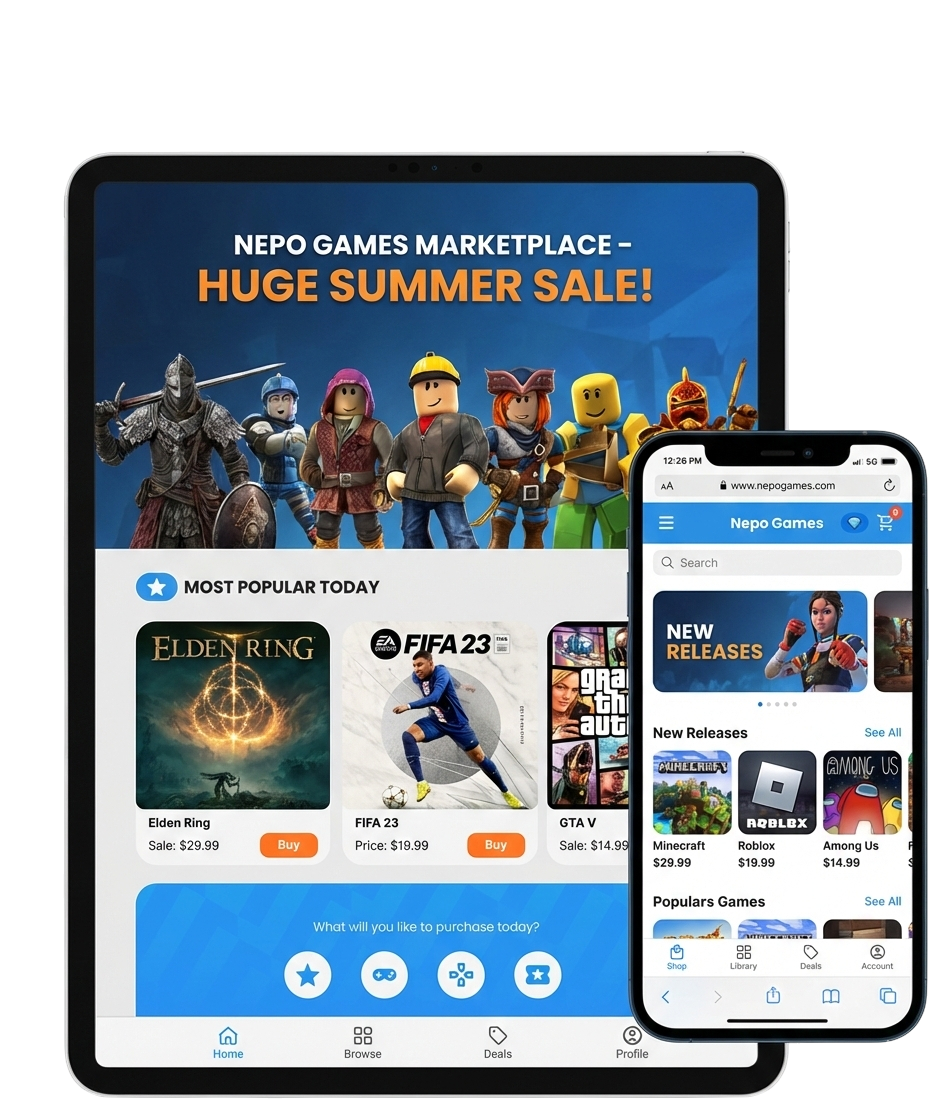
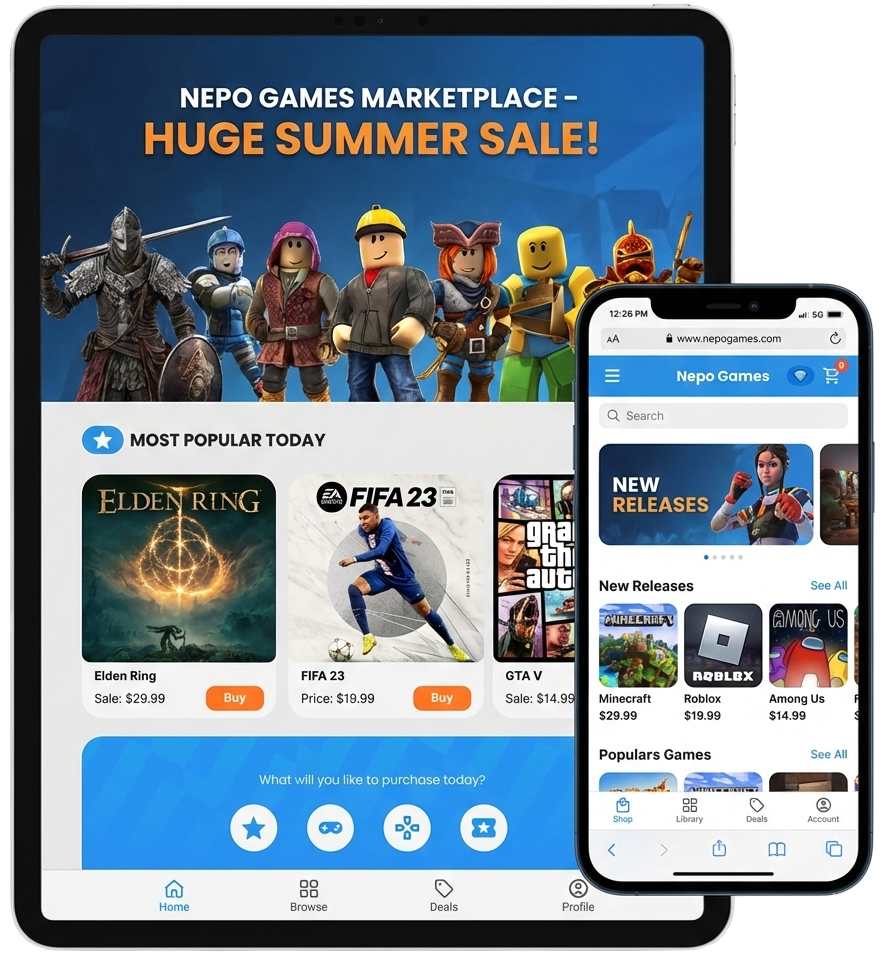
update page.jsx

diff --git a/src/app/page.jsx b/src/app/page.jsx
@@ -66,32 +66,35 @@ export default function Home() {
   return (
     <div>
       <Reveal>
-        <header className="px-20">
-          <div className="flex text-center py-4 font-semibold items-center text-gray-500 justify-between  border-b border-gray-300 w-full">
-            <div></div>
-            <div className="flex gap-9">
-              <div>
-                <a href="">Marketplace</a>
+       <header className="top-0 w-full z-1000">
+          {" "}
+          <div className="px-20  bg-white border-b border-gray-300 ">
+            <div className="flex text-center py-4 font-semibold  items-center text-[#808080] justify-between w-full">
+              <div></div>
+              <div className="flex gap-9">
+                <div>
+                  <a href="">Marketplace</a>
+                </div>
+                <div>
+                  <a href="">Pricing</a>
+                </div>
+                <div>
+                  <a href="">About Us</a>
+                </div>
+                <div>
+                  <a href="">Support</a>
+                </div>
               </div>
               <div>
-                <a href="">Pricing</a>
-              </div>
-              <div>
-                <a href="">About Us</a>
-              </div>
-              <div>
-                <a href="">Support</a>
+                <button className="py-2 px-3 rounded-md border mr-4  hover:bg-gray-200/50 duration-500 transition-all">
+                  Log In
+                </button>
+                <button className="py-2 px-3 rounded-md  hover:bg-blue-800 border border-blue-600/90 duration-500 transition-all bg-[#0000FF] text-white font-bold">
+                  Get Started
+                </button>
               </div>
             </div>
-            <div>
-              <button className="py-2 px-3 rounded-md border mr-4 hover:bg-gray-200 duration-500 transition-all">
-                Log In
-              </button>
-              <button className="py-2 px-3 rounded-md  hover:bg-blue-800 border border-blue-600/90 duration-500 transition-all bg-[#0000FF] text-white font-bold">
-                Get Started
-              </button>
-            </div>
-          </div>
+          </div>{" "}
         </header>
       </Reveal>
       <main>
@@ -106,7 +109,7 @@ export default function Home() {
               <p className="text-gray-500 font-medium text-3xl pt-7 text-center">
                 Redefining how premium gaming accounts are traded — securely and
                 transparently. Skip the grind.{" "}
-                <span className="font-bold text-[#0000FF]">
+                <span className="font-bold text-[#0000FF] italic">
                   Trade with confidence.
                 </span>
               </p>
@@ -118,13 +121,13 @@ export default function Home() {
                 </div>
                 <div className="flex justify-center">
                   {" "}
-                  <button className=" py-5 px-5 rounded-2xl border mr-2 hover:bg-blue-100/70 duration-500 transition-all text-lg">
+                  <button className=" py-5 px-5 rounded-2xl border mr-2 hover:bg-blue-200/90 bg-blue-100/70  duration-500 transition-all text-lg">
                     Sell your account
                   </button>
                 </div>
               </div>
             </div>
-            <div className="p-10 py-0">
+            <div className="p-20 ">
               <img src="/nepo-market.png" alt="" />
             </div>
           </div>
@@ -154,16 +157,27 @@ export default function Home() {
               All Your Games. One Secure Marketplace
             </p>
             <div className="w-full flex pt-4 items-center justify-center">
-              <p className="text-2xl text-center text-gray-900- max-w-300 px-3 pb-4">
+              <p className="text-2xl text-center text-gray-900- max-w-300 px-3 pb-7">
                 Built for serious gamers, Nepo Games provides escrow protection,
                 verified sellers, and seamless transfers — so every trade is
                 smooth, safe, and guaranteed.
               </p>
             </div>
-            <div className="grid grid-cols-3 text-2xl text-center gap-3 px-2">
-              <div className="rounded-2xl bg-[#FBF6F6] px-2">
-                <img src="" alt="" />
-                <p className="font-bold">Escrow-Protected Payments</p>
+            <div className="grid grid-cols-3 text-2xl text-center gap-3 px-2 ">
+              <div className="group rounded-2xl pb-10 bg-[#FBF6F6] px-2 border border-blue-100 hover:border-blue-700 transition-all duration-700">
+                <div className="p-15 pb-5">
+                  {" "}
+                  <div className="w-full  h-100 overflow-hidden rounded-3xl">
+                    <img
+                      className="w-full h-full object-cover transition-transform duration-700 group-hover:scale-115"
+                      src="/transact.jpg"
+                      alt=""
+                    />
+                  </div>
+                </div>
+                <p className="font-bold transition-all duration-500 group-hover:text-blue-700">
+                  Escrow-Protected Payments
+                </p>
                 <p>
                   Every transaction on our platform is secured with escrow
                   protection. The buyer’s funds are safely held until the
@@ -173,9 +187,21 @@ export default function Home() {
                   is always safe.
                 </p>
               </div>
-              <div className="rounded-2xl bg-[#FBF6F6]  px-2">
-                <img src="" alt="" />
-                <p className="font-bold">Advanced Search & Smart Filters</p>
+              <div className="group rounded-2xl pb-10 bg-[#FBF6F6] px-2 border border-blue-100 hover:border-blue-700 transition-all duration-700">
+                <div className="p-15 pb-5">
+                  {" "}
+                  <div className="w-full  h-100 overflow-hidden rounded-3xl">
+                    <img
+                      className="w-full h-full object-cover transition-transform duration-700 group-hover:scale-115"
+                      src="/google.jpg"
+                      alt=""
+                    />
+                  </div>
+                </div>
+
+                <p className="font-bold transition-all duration-500 group-hover:text-blue-700">
+                  Advanced Search & Smart Filters
+                </p>
                 <p>
                   Find exactly what you’re looking for in seconds. Filter
                   accounts by game title, rank, skins, price range, platform,
@@ -183,9 +209,21 @@ export default function Home() {
                   listings and discover the best deals without wasting time.
                 </p>
               </div>
-              <div className="rounded-2xl bg-[#FBF6F6]  px-2">
-                <img src="" alt="" />
-                <p className="font-bold">Secure In-Platform Messaging</p>
+              <div className="group rounded-2xl pb-10 bg-[#FBF6F6] px-2 border border-blue-100 hover:border-blue-700 transition-all duration-700">
+                <div className="p-15 pb-5">
+                  {" "}
+                  <div className="w-full  h-100 overflow-hidden rounded-3xl">
+                    <img
+                      className="w-full h-full object-cover transition-transform duration-700 group-hover:scale-115"
+                      src="message.jpg"
+                      alt=""
+                    />
+                  </div>
+                </div>
+
+                <p className="font-bold transition-all duration-500 group-hover:text-blue-700">
+                  Secure In-Platform Messaging
+                </p>
                 <p>
                   Communicate directly with sellers through our secure in-app
                   messaging system. Share details, confirm requirements, and
@@ -195,6 +233,9 @@ export default function Home() {
               </div>
             </div>
           </div>
+        </Reveal>
+        <Reveal>
+          <div className="pt-10"></div>
         </Reveal>
       </main>
     </div>

diff --git a/src/app/globals.css b/src/app/globals.css
@@ -1,15 +1,16 @@
 @import "tailwindcss";
 
 :root {
-  --background: #ffffff;
-  --foreground: #171717;
+  background-image: url("/background.png");
+  background-size: cover;
+  background-position: center;
+  background-repeat: no-repeat;
 }
 
 @theme inline {
   --color-background: var(--background);
-  --color-foreground: var(--foreground);
-  --font-sans: var(--font-geist-sans);
-  --font-mono: var(--font-geist-mono);
+  /* --font-sans: var(--font-geist-sans);
+  --font-mono: var(--font-geist-mono); */
 }
 
 .scroller {
